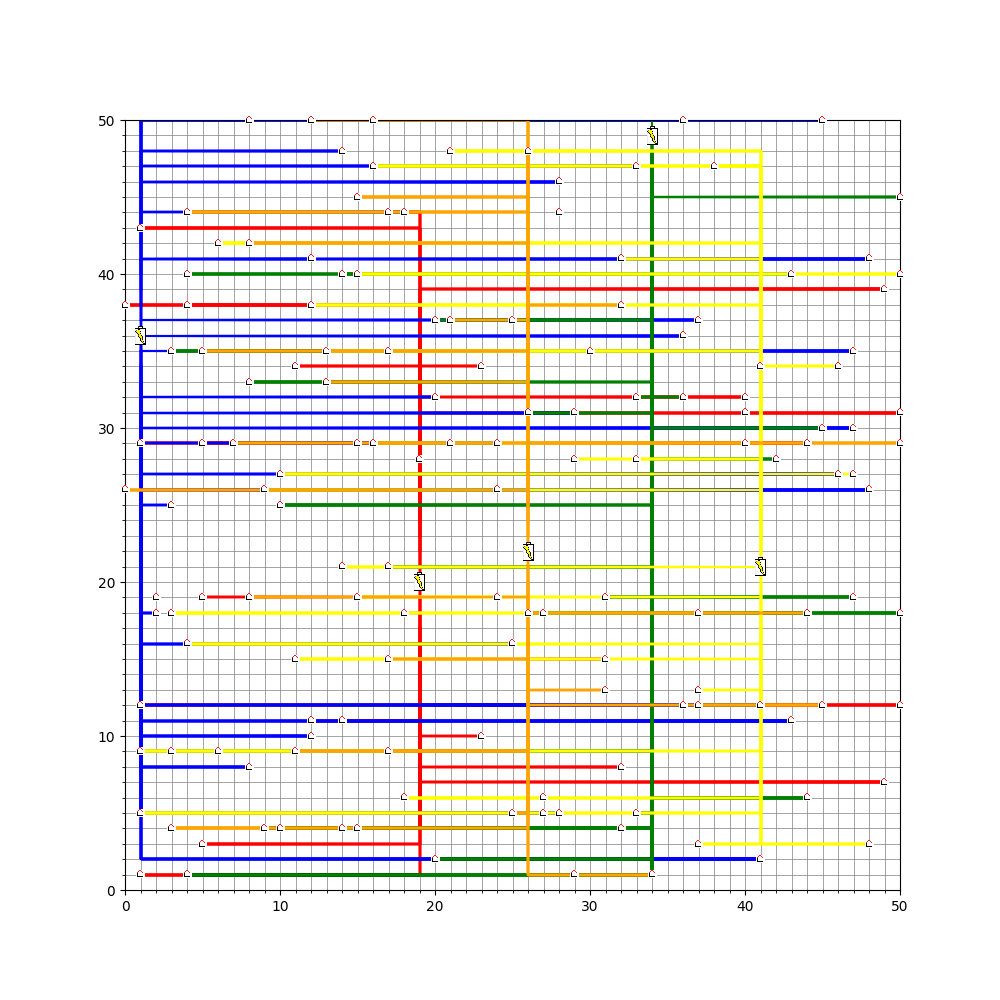
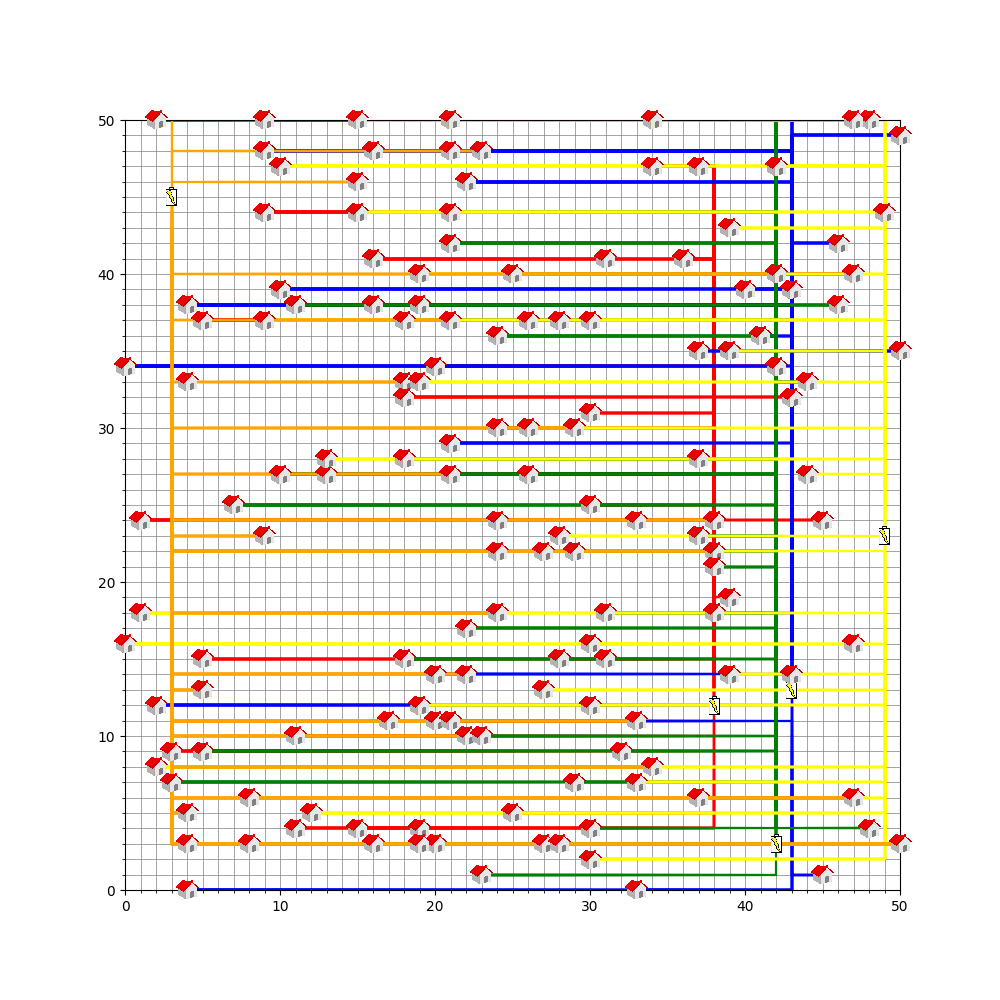
removed files

Changed region(s): [[0.093, 0.093, 0.93, 0.899]]

diff --git a/code/visualization/visualization.py b/code/visualization/visualization.py
@@ -43,7 +43,7 @@ def visualize(grid):
     #-------------------------------------plot---------------------------------
     fig, ax = plt.subplots(1, 1, figsize=(10, 10))
     imscatter(x_batteries, y_batteries, battery_img, zoom=0.08, ax=ax)
-    imscatter(x_houses,y_houses,house_img, zoom=0.007, ax=ax)
+    imscatter(x_houses,y_houses,house_img, zoom=0.008, ax=ax)
     for battery in grid.batteries:
         colors = ['red', 'blue', 'green', 'yellow', 'orange']
         for house in battery.houses:

diff --git a/code/algorithms/randomise.py b/code/algorithms/randomise.py
@@ -39,11 +39,12 @@ def get_score(grid):
     return cables
 
 def baseline(grid):
+    """ Randomises the connections of the houses 100 times and appends the
+    score to scores list"""
     scores = []
-    for i in range(1000):
+    for i in range(100):
         base_grid = copy.deepcopy(grid)
         run(base_grid)
-        score = get_score(base_grid)
-        scores.append(score)
+        scores.append(get_score(base_grid))
     return scores
 

diff --git a/main.py b/main.py
@@ -12,10 +12,9 @@ if __name__ == "__main__":
     
 
     new_grid = rand.make_new_grid(grid)
-    #print(rand.baseline(new_grid))
-    print(min(rand.baseline(new_grid)))
-    # rand.run(new_grid)
+    # print(rand.baseline(new_grid))
+    rand.run(new_grid)
     # print(rand.get_score(new_grid))
 
-    output(new_grid)
-    # visualize(new_grid)
+    # output(new_grid)
+    visualize(new_grid)
